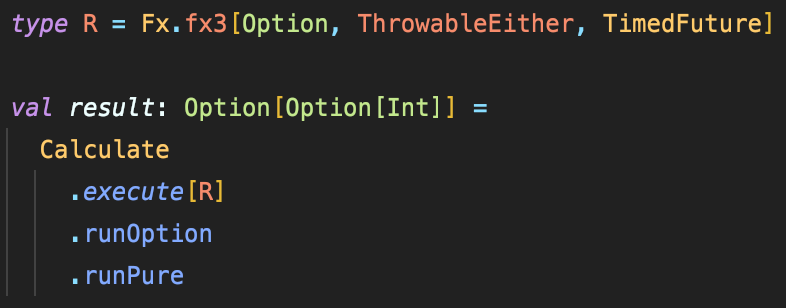
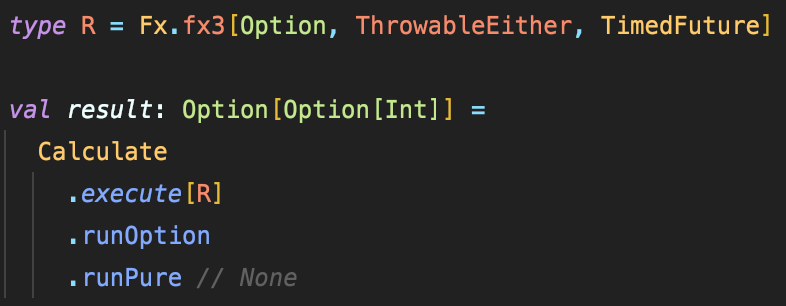
commit

diff --git a/slide/index.md b/slide/index.md
@@ -28,10 +28,18 @@ Kushiro Taichi at Alp,Inc.
 ---
 
 ## Eff（Extensible Effects）とは
-- 「Freer Monads, More Extensible Effects」で紹介
-- 実装面の特徴
+- 「Freer Monads, More Extensible Effects」の論文で紹介
+  - Efficient Freer, Open Union
+- 「Extensible Effects in Scala」- ねこはるさんの記事
+
+---
+
+## Eff（Extensible Effects）の実装
+- atnos-effライブラリを用いる
+- 実装時の特徴
   - 複数のエフェクトをフラットに扱う
   - Interpreterによる実行の分離
+  - 独自エフェクトの定義が可能
 
 ---
 
@@ -45,23 +53,33 @@ Kushiro Taichi at Alp,Inc.
 
 ## Interpreterによる実行の分離
 - Open Unionによりエフェクトのスタックを定義
-- Interpreterによる実行（差し替え可能）
+- Interpreterによる実行
+- 実行順により型の結果が変わる - 値の結果は変わらない
 
-![image width:1150px](5_page.png)
+![image width:1000px](5_page.png)
 
 ---
 
-## 実務のコードでは...？
-- 例として`Factory`や`Repository`にエフェクトを用いることも
-- `Eff[R, A]`型を複数のメソッドで引き回すことが多い
+## 独自エフェクトの定義が可能
+- エフェクト定義
+- スマートコンストラクタ
+- Interpreter - 差し替え可能
 
-![image](6_page.png)
+![image](7_page.png)
 
 ---
 
 # コーディング集
 
 実務に近いコードを紹介していきます
+
+---
+
+## 実務のコードでは...？
+- 例として`Factory`や`Repository`内でエフェクトを用いることも
+- `Eff[R, A]`型を複数のメソッドで引き回すことが多い
+
+![image](6_page.png)
 
 ---
 
@@ -89,9 +107,10 @@ Kushiro Taichi at Alp,Inc.
 
 ## runPure
 - `Eff[R, A]`から`A`を `Option`で囲んで取り出す
-- エフェクトが全て実行済みであれば `Some`
+  - 全て実行済みであれば `Some`、未実行があれば `None`
+- 結果は式に依存するのでmockをスキップして `Some`を取得できる
 
-![image](11_page.png)
+![image width:700px](11_page.png)
 
 ---
 
@@ -112,13 +131,13 @@ Kushiro Taichi at Alp,Inc.
 - テストが煩雑になることも
 - ドメインロジックはピュアに書く？
 
-![image](14_page.png)
+![image](16_page.png)
 
 ---
 
 ## option, list エフェクトを用いるか
 - `runXxx`によって実行順を制御
-- 処理に対する実行順の意識が必要になり基本的には使っていない
+- 処理に対する実行順の制御に気をつける
 
 ---
 
@@ -129,8 +148,8 @@ Kushiro Taichi at Alp,Inc.
 
 ---
 
-## 実装を意識しなくなるが実装知識も大事
-- DBのトランザクションどうなってる？
+## 実装をカプセル化はするが実装知識も大事
+- DBのコネクション、セッションどうなってる？
 
 ---
 
@@ -139,9 +158,9 @@ Kushiro Taichi at Alp,Inc.
 ---
 
 ## ドメインに集中できる
-- 
-- 実装がカプセル化される
+- 実装がカプセル化されユースケースの見通しが良くなる
 - シグネチャに現れるエフェクトによって可読性が増す
+  - ユースケースに対して発生するエフェクトが把握できる
 
 ---
 
@@ -156,16 +175,15 @@ Kushiro Taichi at Alp,Inc.
 
 ---
 ## 独自エフェクトが多数用いられている
+- 独自エラー型
 - ID生成
-- DBトランザクション
-- Kinesis実行 etc.
+- DBトランザクション（doobie公式） etc.
 
 ---
 
 ## 独自エラーエフェクトに対するスマートコンストラクタを多数定義
 
 ![image width:1000px](22_page.png)
-
 
 ---
 
